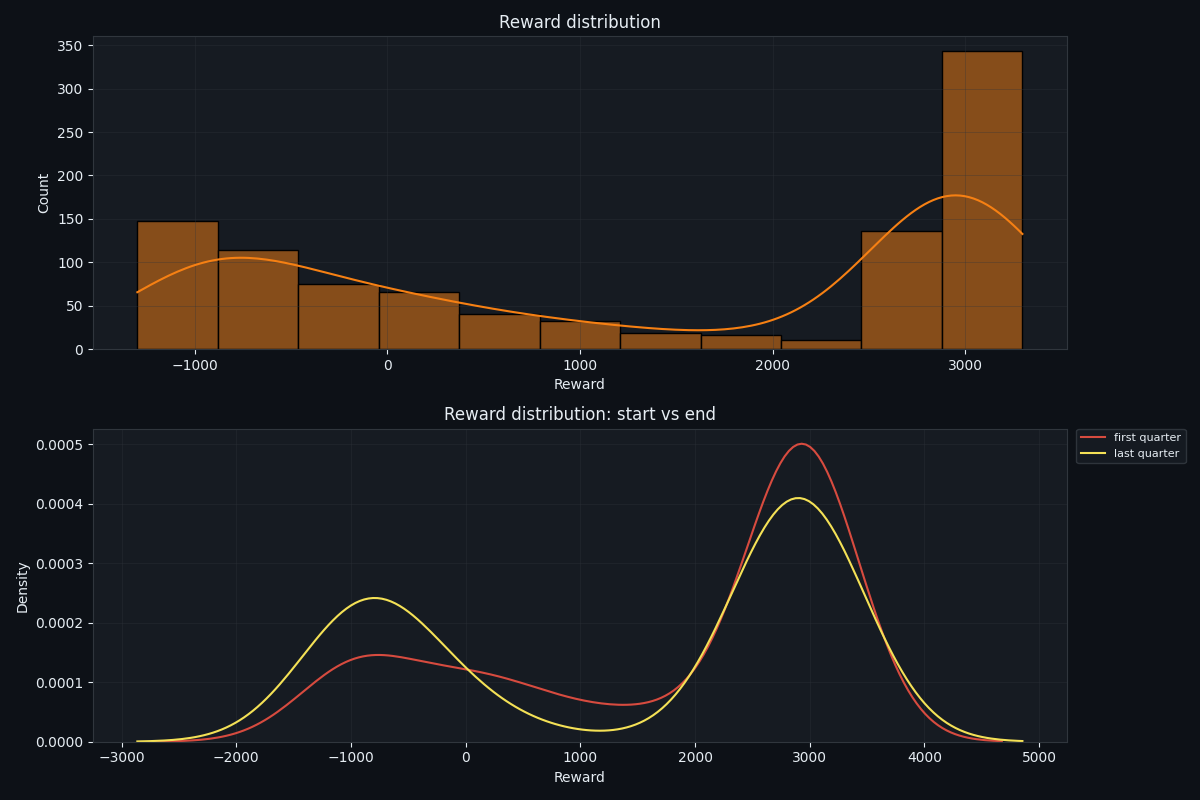
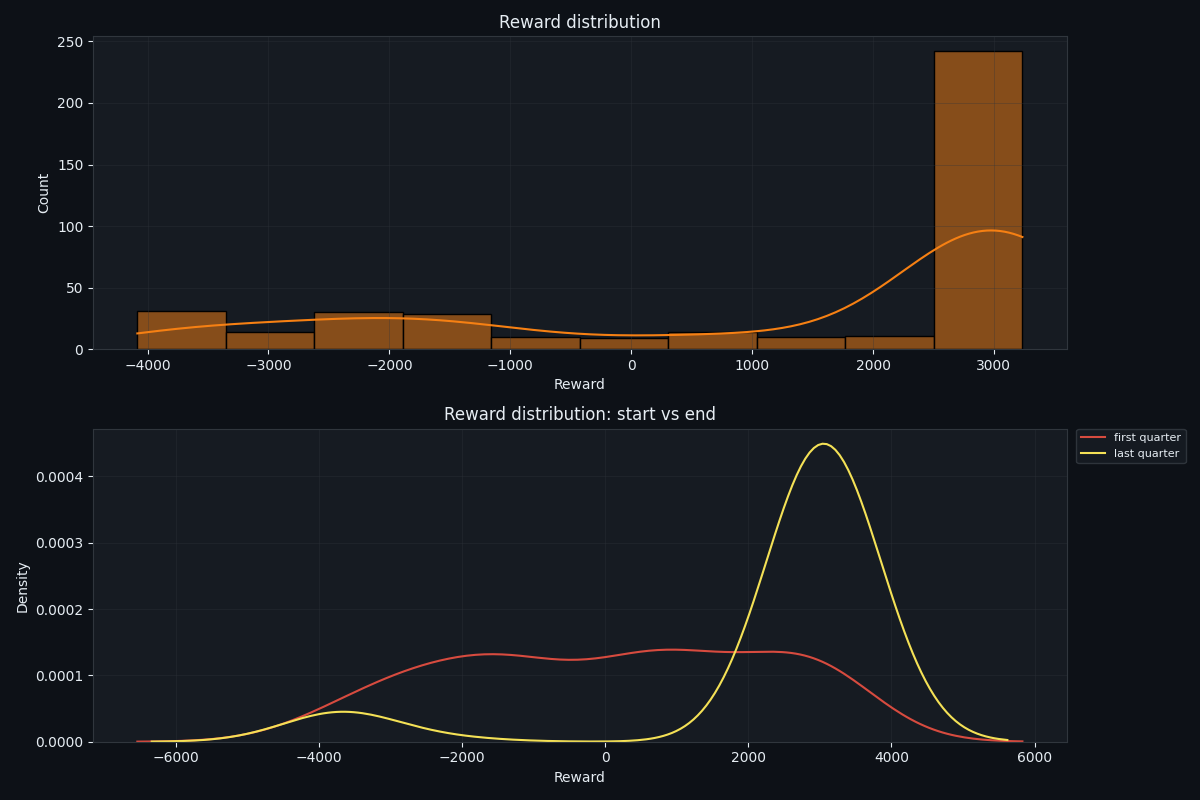
Enhance reward system by adding penalties for low pose, low energy, and inactivity; update configuration parameters accordingly. Modify tests to validate new reward components and their effects on performance.

diff --git a/tests/test_two_node_contract.py b/tests/test_two_node_contract.py
@@ -159,7 +159,14 @@ class RewardContractTests(unittest.TestCase):
         )
 
         self.assertLessEqual(result.reward, 0.0)
-        self.assertAlmostEqual(result.reward, result.components["swing_up_progress"])
+        self.assertLess(result.components["low_pose_penalty"], 0.0)
+        self.assertAlmostEqual(
+            result.reward,
+            result.components["swing_up_progress"]
+            + result.components["low_pose_penalty"]
+            + result.components["low_energy_penalty"]
+            + result.components["sleep_penalty"],
+        )
 
     def test_reward_components_expose_contract_layers(self):
         state = physical_state()
@@ -404,6 +411,36 @@ class RewardContractTests(unittest.TestCase):
         self.assertEqual(0.0, phase_down.components["capture_cart_center_bonus"])
         other_mode = manager.evaluate_transition(upright_center, upright_center, action=0.0, phase=1, capture_started=True, hold_streak=10, initial_pose_mode="down")
         self.assertEqual(0.0, other_mode.components["capture_cart_center_bonus"])
+
+    def test_anti_sleep_penalizes_idle_bottom_pose(self):
+        bottom = physical_state(q1=-math.pi / 2, q2=-math.pi / 2, u1=0.0, u2=0.0)
+        result = self.manager.evaluate_transition(
+            bottom,
+            bottom,
+            action=0.0,
+            phase=1,
+            capture_started=True,
+            hold_streak=0,
+            initial_pose_mode="capture",
+        )
+        self.assertLess(result.components["low_pose_penalty"], 0.0)
+        self.assertLess(result.components["low_energy_penalty"], 0.0)
+        self.assertLess(result.components["sleep_penalty"], 0.0)
+
+    def test_anti_sleep_does_not_penalize_stable_upright_hold(self):
+        upright = physical_state(q1=math.pi / 2, q2=math.pi / 2, u1=0.0, u2=0.0)
+        result = self.manager.evaluate_transition(
+            upright,
+            upright,
+            action=0.0,
+            phase=1,
+            capture_started=True,
+            hold_streak=10,
+            initial_pose_mode="capture",
+        )
+        self.assertEqual(0.0, result.components["low_pose_penalty"])
+        self.assertEqual(0.0, result.components["low_energy_penalty"])
+        self.assertEqual(0.0, result.components["sleep_penalty"])
 
     def test_excessive_angular_speed_cannot_enter_capture(self):
         fast_upright = physical_state(q1=math.pi / 2, q2=math.pi / 2, u1=2.0, u2=2.0)
@@ -948,7 +985,7 @@ class TwoNodeEnvironmentTests(unittest.TestCase):
         self.assertFalse(truncated)
         self.assertEqual("capture_drop_redrop", redrop_info["termination_reason"])
         self.assertEqual(0.0, redrop_info["reward_components"]["capture_drop_penalty"])
-        self.assertGreaterEqual(reward, 0.0)
+        self.assertLess(redrop_info["reward_components"]["sleep_penalty"], 0.0)
 
     def test_capture_vertical_continues_after_drop_when_termination_disabled(self):
         custom = dict(config)

diff --git a/reward.py b/reward.py
@@ -148,6 +148,33 @@ class RewardManager:
             action_score = 0.0
             reward = potential_progress
 
+        # Anti-sleep: pénalise le fait de rester bas et immobile après une chute.
+        low_pose_penalty = 0.0
+        low_energy_penalty = 0.0
+        sleep_penalty = 0.0
+        height_score = self._height_score(next_state)
+        energy_score = self._energy_score(next_state)
+        angular_speed = float(metrics["angular_speed"])
+        end_y = float(metrics["end_y"])
+        low_pose_depth = max(0.0, 0.45 - height_score) / 0.45
+        if low_pose_depth > 0.0:
+            low_pose_penalty = -float(self.config["low_pose_penalty"]) * low_pose_depth
+            energy_deficit = max(0.0, 1.0 - energy_score)
+            low_energy_penalty = (
+                -float(self.config["low_energy_penalty"])
+                * low_pose_depth
+                * energy_deficit
+            )
+            sleep_threshold = float(self.config["anti_sleep_angular_speed_threshold"])
+            if end_y < 0.0 and angular_speed < sleep_threshold:
+                sleep_factor = 1.0 - angular_speed / max(1e-6, sleep_threshold)
+                sleep_penalty = (
+                    -float(self.config["anti_sleep_penalty"])
+                    * low_pose_depth
+                    * sleep_factor
+                )
+        reward += low_pose_penalty + low_energy_penalty + sleep_penalty
+
         # Journalisation des composantes pour le suivi et le rendu
         components = {
             "reward": float(reward),
@@ -187,6 +214,9 @@ class RewardManager:
             "hold_progress": float(hold_progress),
             "hold_progress_delta": float(hold_progress_delta),
             "phase": float(phase),
+            "low_pose_penalty": low_pose_penalty,
+            "low_energy_penalty": low_energy_penalty,
+            "sleep_penalty": sleep_penalty,
         }
         return RewardResult(
             reward=float(reward),

diff --git a/config.py b/config.py
@@ -12,7 +12,7 @@ config = {
     'load_models': True,
     'gamma': 0.995,
     'num_nodes': 2,
-    'gravity': 9.81,
+    'gravity': 7.81,
     'cart_mass': 0.01 / 3.0,
     'bob_mass': 0.01 / 3.0,
     'angular_friction': 0.0005,
@@ -82,14 +82,18 @@ config = {
     'capture_drop_remaining_penalty': -800.0,
     'capture_drop_target_score_threshold': 0.5,
     'capture_drop_grace_steps': 20,
-    'capture_drop_truncation_steps': 75,
-    'capture_drop_recovery_steps': 20,
+    'capture_drop_truncation_steps': 300,
+    'capture_drop_recovery_steps': 50,
     'capture_drop_redrop_terminates': True,
-    'capture_drop_terminates_episode': True,
+    'capture_drop_terminates_episode': False,
     'hold_progress_bonus': 100.0,
     'action_l2_penalty': 0.5,
     'action_delta_penalty': 3.0,
     'saturation_penalty': 3.0,
+    'low_pose_penalty': 0.05,
+    'low_energy_penalty': 0.10,
+    'anti_sleep_penalty': 0.25,
+    'anti_sleep_angular_speed_threshold': 0.25,
     'render_training': True,
     'render_every_episodes': 50,
     'render_first_episode': True,
@@ -133,7 +137,8 @@ def validate_config(cfg):
         'capture_drop_truncation_steps', 'capture_drop_recovery_steps',
         'capture_drop_redrop_terminates', 'capture_drop_terminates_episode',
         'hold_progress_bonus', 'action_l2_penalty', 'action_delta_penalty',
-        'saturation_penalty',
+        'saturation_penalty', 'low_pose_penalty', 'low_energy_penalty',
+        'anti_sleep_penalty', 'anti_sleep_angular_speed_threshold',
         'render_training', 'render_every_episodes', 'render_first_episode',
         'plot_config',
     }
@@ -198,6 +203,8 @@ def validate_config(cfg):
         'capture_cart_center_weight',
         'hold_progress_bonus', 'cart_limit_proximity_penalty',
         'action_l2_penalty', 'action_delta_penalty', 'saturation_penalty',
+        'low_pose_penalty', 'low_energy_penalty', 'anti_sleep_penalty',
+        'anti_sleep_angular_speed_threshold',
         'entropy_coefficient', 'value_loss_coefficient',
     )
     for key in nonnegative_keys:

diff --git a/metrics.py b/metrics.py
@@ -34,6 +34,9 @@ REWARD_COMPONENTS = [
     "cart_proximity_penalty",
     "cart_limit_step_penalty",
     "cart_failure_penalty",
+    "low_pose_penalty",
+    "low_energy_penalty",
+    "sleep_penalty",
     "transition_reward",
 ]
 